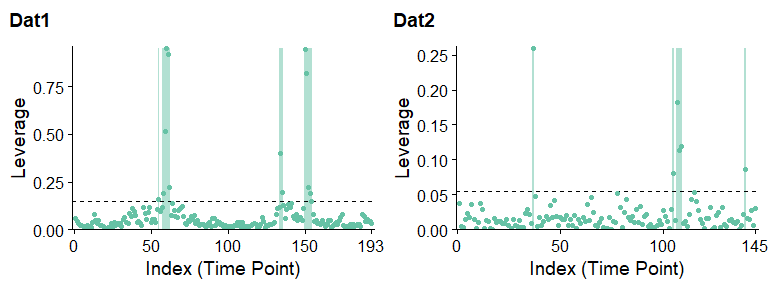
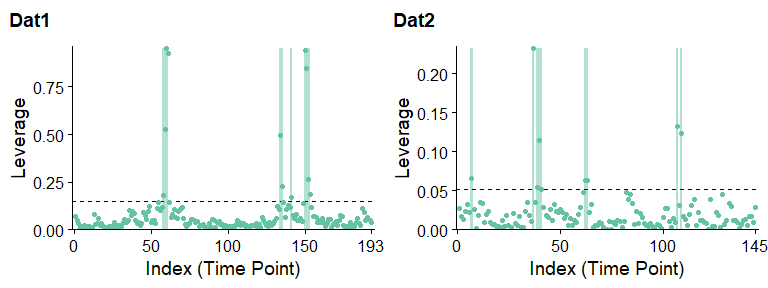
var_stablize: handle zero values in `x` and in estimated `s`

diff --git a/vignettes/vignette.html b/vignettes/vignette.html
@@ -246,7 +246,7 @@ code span.wa { color: #60a0b0; font-weight: bold; font-style: italic; } /* Warni
 <div class="sourceCode" id="cb21"><pre class="sourceCode r"><code class="sourceCode r"><span id="cb21-1"><a href="#cb21-1" aria-hidden="true" tabindex="-1"></a>p1 <span class="ot">&lt;-</span> <span class="fu">plot</span>(clever.Dat1.var.lev, <span class="at">title=</span><span class="st">&quot;Dat1&quot;</span>, <span class="at">show.legend=</span><span class="cn">FALSE</span>)</span>
 <span id="cb21-2"><a href="#cb21-2" aria-hidden="true" tabindex="-1"></a>p2 <span class="ot">&lt;-</span> <span class="fu">plot</span>(clever.Dat2.var.lev, <span class="at">title=</span><span class="st">&quot;Dat2&quot;</span>, <span class="at">show.legend=</span><span class="cn">FALSE</span>)</span>
 <span id="cb21-3"><a href="#cb21-3" aria-hidden="true" tabindex="-1"></a>cowplot<span class="sc">::</span><span class="fu">plot_grid</span>(p1, p2, <span class="at">nrow=</span><span class="dv">1</span>)</span></code></pre></div>
[2 lines of base64/hex data omitted]
 <p>PCA leverage indicates clear outliers in the first dataset around the 60th and 150th timepoints. While the second dataset is relatively artifact-free, PCA leverage does indicate a few potential outliers including around the 40th and 110th timepoints. We can confirm that the results for DVARS look similar:</p>
 <div class="sourceCode" id="cb22"><pre class="sourceCode r"><code class="sourceCode r"><span id="cb22-1"><a href="#cb22-1" aria-hidden="true" tabindex="-1"></a>p1 <span class="ot">&lt;-</span> <span class="fu">plot</span>(<span class="fu">DVARS</span>(Dat1), <span class="at">title=</span><span class="st">&quot;Dat1&quot;</span>, <span class="at">show.legend=</span><span class="cn">FALSE</span>)</span>
 <span id="cb22-2"><a href="#cb22-2" aria-hidden="true" tabindex="-1"></a>p2 <span class="ot">&lt;-</span> <span class="fu">plot</span>(<span class="fu">DVARS</span>(Dat2), <span class="at">title=</span><span class="st">&quot;Dat2&quot;</span>, <span class="at">show.legend=</span><span class="cn">FALSE</span>)</span>
@@ -287,7 +287,7 @@ code span.wa { color: #60a0b0; font-weight: bold; font-style: italic; } /* Warni
 <span id="cb27-5"><a href="#cb27-5" aria-hidden="true" tabindex="-1"></a></span>
 <span id="cb27-6"><a href="#cb27-6" aria-hidden="true" tabindex="-1"></a><span class="fu">image</span>(Img1[,,,t_med], <span class="at">main=</span><span class="fu">paste0</span>(<span class="st">&#39;Median leverage (T = &#39;</span>, t_med, <span class="st">&#39;)&#39;</span>))</span>
 <span id="cb27-7"><a href="#cb27-7" aria-hidden="true" tabindex="-1"></a><span class="fu">image</span>(Img1[,,,t_max], <span class="at">main=</span><span class="fu">paste0</span>(<span class="st">&#39;Maximum leverage (T = &#39;</span>, t_max, <span class="st">&#39;)&#39;</span>))</span></code></pre></div>
[2 lines of base64/hex data omitted]
 <p>The median time point appears normal, whereas the most outlying time point clearly has banding artifacts likely due to subject motion.</p>
 </div>
 <div id="leverage-images" class="section level3">
@@ -300,7 +300,7 @@ code span.wa { color: #60a0b0; font-weight: bold; font-style: italic; } /* Warni
 <span id="cb30-3"><a href="#cb30-3" aria-hidden="true" tabindex="-1"></a><span class="fu">cat</span>(<span class="st">&#39;The timepoints meeting the first outlier level threshold:</span><span class="sc">\n</span><span class="st">&#39;</span>)</span></code></pre></div>
 <pre><code>## The timepoints meeting the first outlier level threshold:</code></pre>
 <div class="sourceCode" id="cb32"><pre class="sourceCode r"><code class="sourceCode r"><span id="cb32-1"><a href="#cb32-1" aria-hidden="true" tabindex="-1"></a><span class="fu">cat</span>(<span class="fu">paste</span>(<span class="fu">row.names</span>(Lev_Img1<span class="sc">$</span>mean), <span class="at">collapse=</span><span class="st">&quot;, &quot;</span>))</span></code></pre></div>
-<pre><code>## 55, 58, 59, 60, 61, 62, 134, 135, 150, 151, 152, 153, 154</code></pre>
+<pre><code>## 58, 59, 60, 61, 134, 135, 141, 150, 151, 152, 153</code></pre>
 <p>Here are the leverage images at timepoint 60 for the first dataset:</p>
 <div class="sourceCode" id="cb34"><pre class="sourceCode r"><code class="sourceCode r"><span id="cb34-1"><a href="#cb34-1" aria-hidden="true" tabindex="-1"></a><span class="fu">par</span>(<span class="at">mfrow=</span><span class="fu">c</span>(<span class="dv">1</span>,<span class="dv">2</span>))</span>
 <span id="cb34-2"><a href="#cb34-2" aria-hidden="true" tabindex="-1"></a></span>
